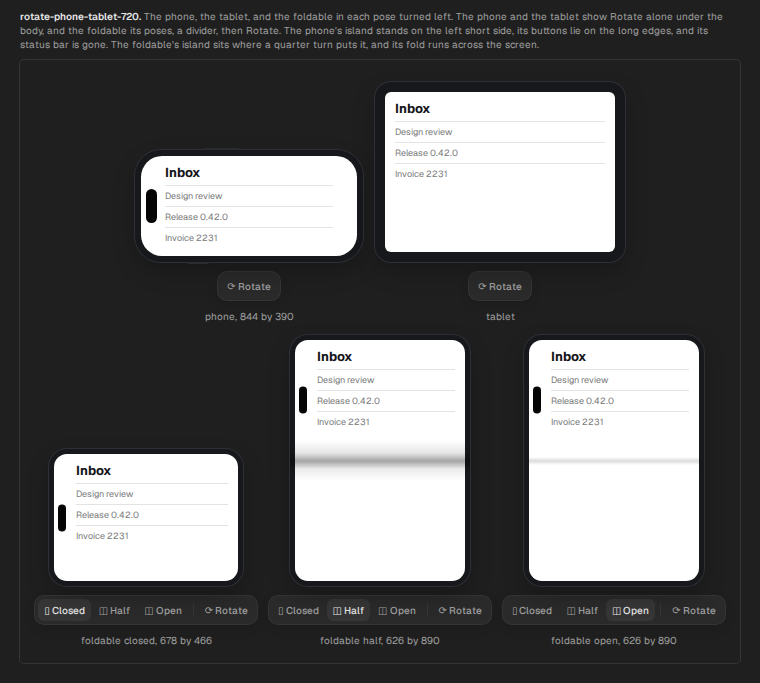
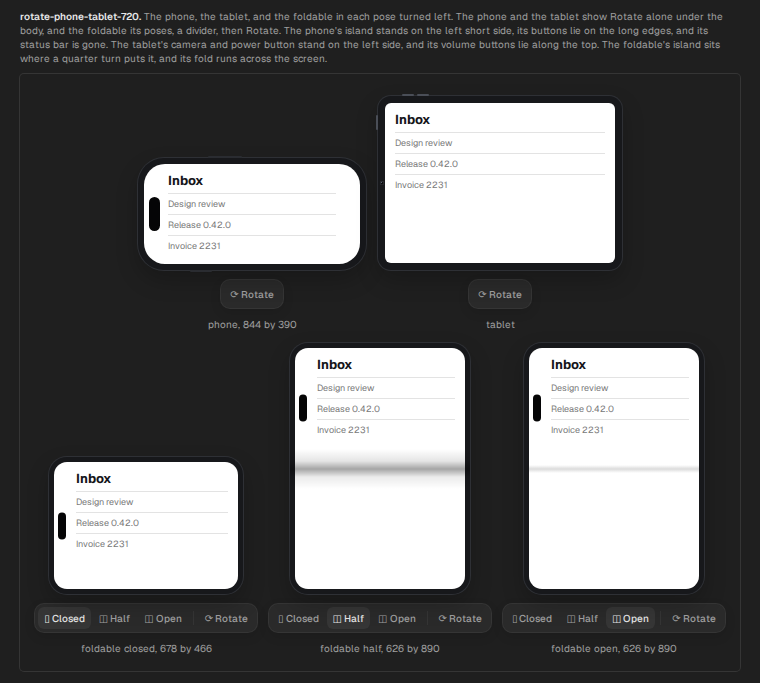
docs(design): redraw the turned tablet with its camera and buttons

diff --git a/canon/design/canvas/device-turned.html b/canon/design/canvas/device-turned.html
@@ -400,6 +400,21 @@
         background: #2a2c31;
         border-radius: 2px;
       }
+      .btn3 {
+        position: absolute;
+        background: #4a4e57;
+        border-radius: 2px;
+      }
+      .cam {
+        position: absolute;
+        background: radial-gradient(
+          circle at 35% 35%,
+          #5b6170 0 18%,
+          #0a0a0c 22%
+        );
+        border-radius: 50%;
+        box-shadow: 0 0 0 0.5px #4a4e57;
+      }
       .fold {
         position: absolute;
         background: linear-gradient(
@@ -509,8 +524,10 @@
       each pose turned left. The phone and the tablet show Rotate alone under
       the body, and the foldable its poses, a divider, then Rotate. The phone's
       island stands on the left short side, its buttons lie on the long edges,
-      and its status bar is gone. The foldable's island sits where a quarter
-      turn puts it, and its fold runs across the screen.
+      and its status bar is gone. The tablet's camera and power button stand on
+      the left side, and its volume buttons lie along the top. The foldable's
+      island sits where a quarter turn puts it, and its fold runs across the
+      screen.
     </p>
     <div class="stage">
       <div class="col">
@@ -555,12 +572,34 @@
       <div class="col">
         <div
           class="body"
-          style="width: 250px; height: 180px; border-radius: 16px"
+          style="width: 244px; height: 174px; border-radius: 13px"
         >
-          <div class="scr" style="inset: 10px; border-radius: 6px">
+          <div class="scr" style="inset: 7px; border-radius: 6px">
             <b>Inbox</b><i>Design review</i><i>Release 0.42.0</i
             ><i>Invoice 2231</i>
           </div>
+          <div
+            class="cam"
+            style="
+              top: 50%;
+              left: 3.5px;
+              width: 3px;
+              height: 3px;
+              transform: translate(-50%, -50%);
+            "
+          ></div>
+          <div
+            class="btn3"
+            style="left: -2px; top: 19px; width: 2px; height: 15px"
+          ></div>
+          <div
+            class="btn3"
+            style="top: -2px; left: 24px; height: 2px; width: 12px"
+          ></div>
+          <div
+            class="btn3"
+            style="top: -2px; left: 39px; height: 2px; width: 12px"
+          ></div>
         </div>
         <div class="pbar"><span>⟳ Rotate</span></div>
         <small>tablet</small>
